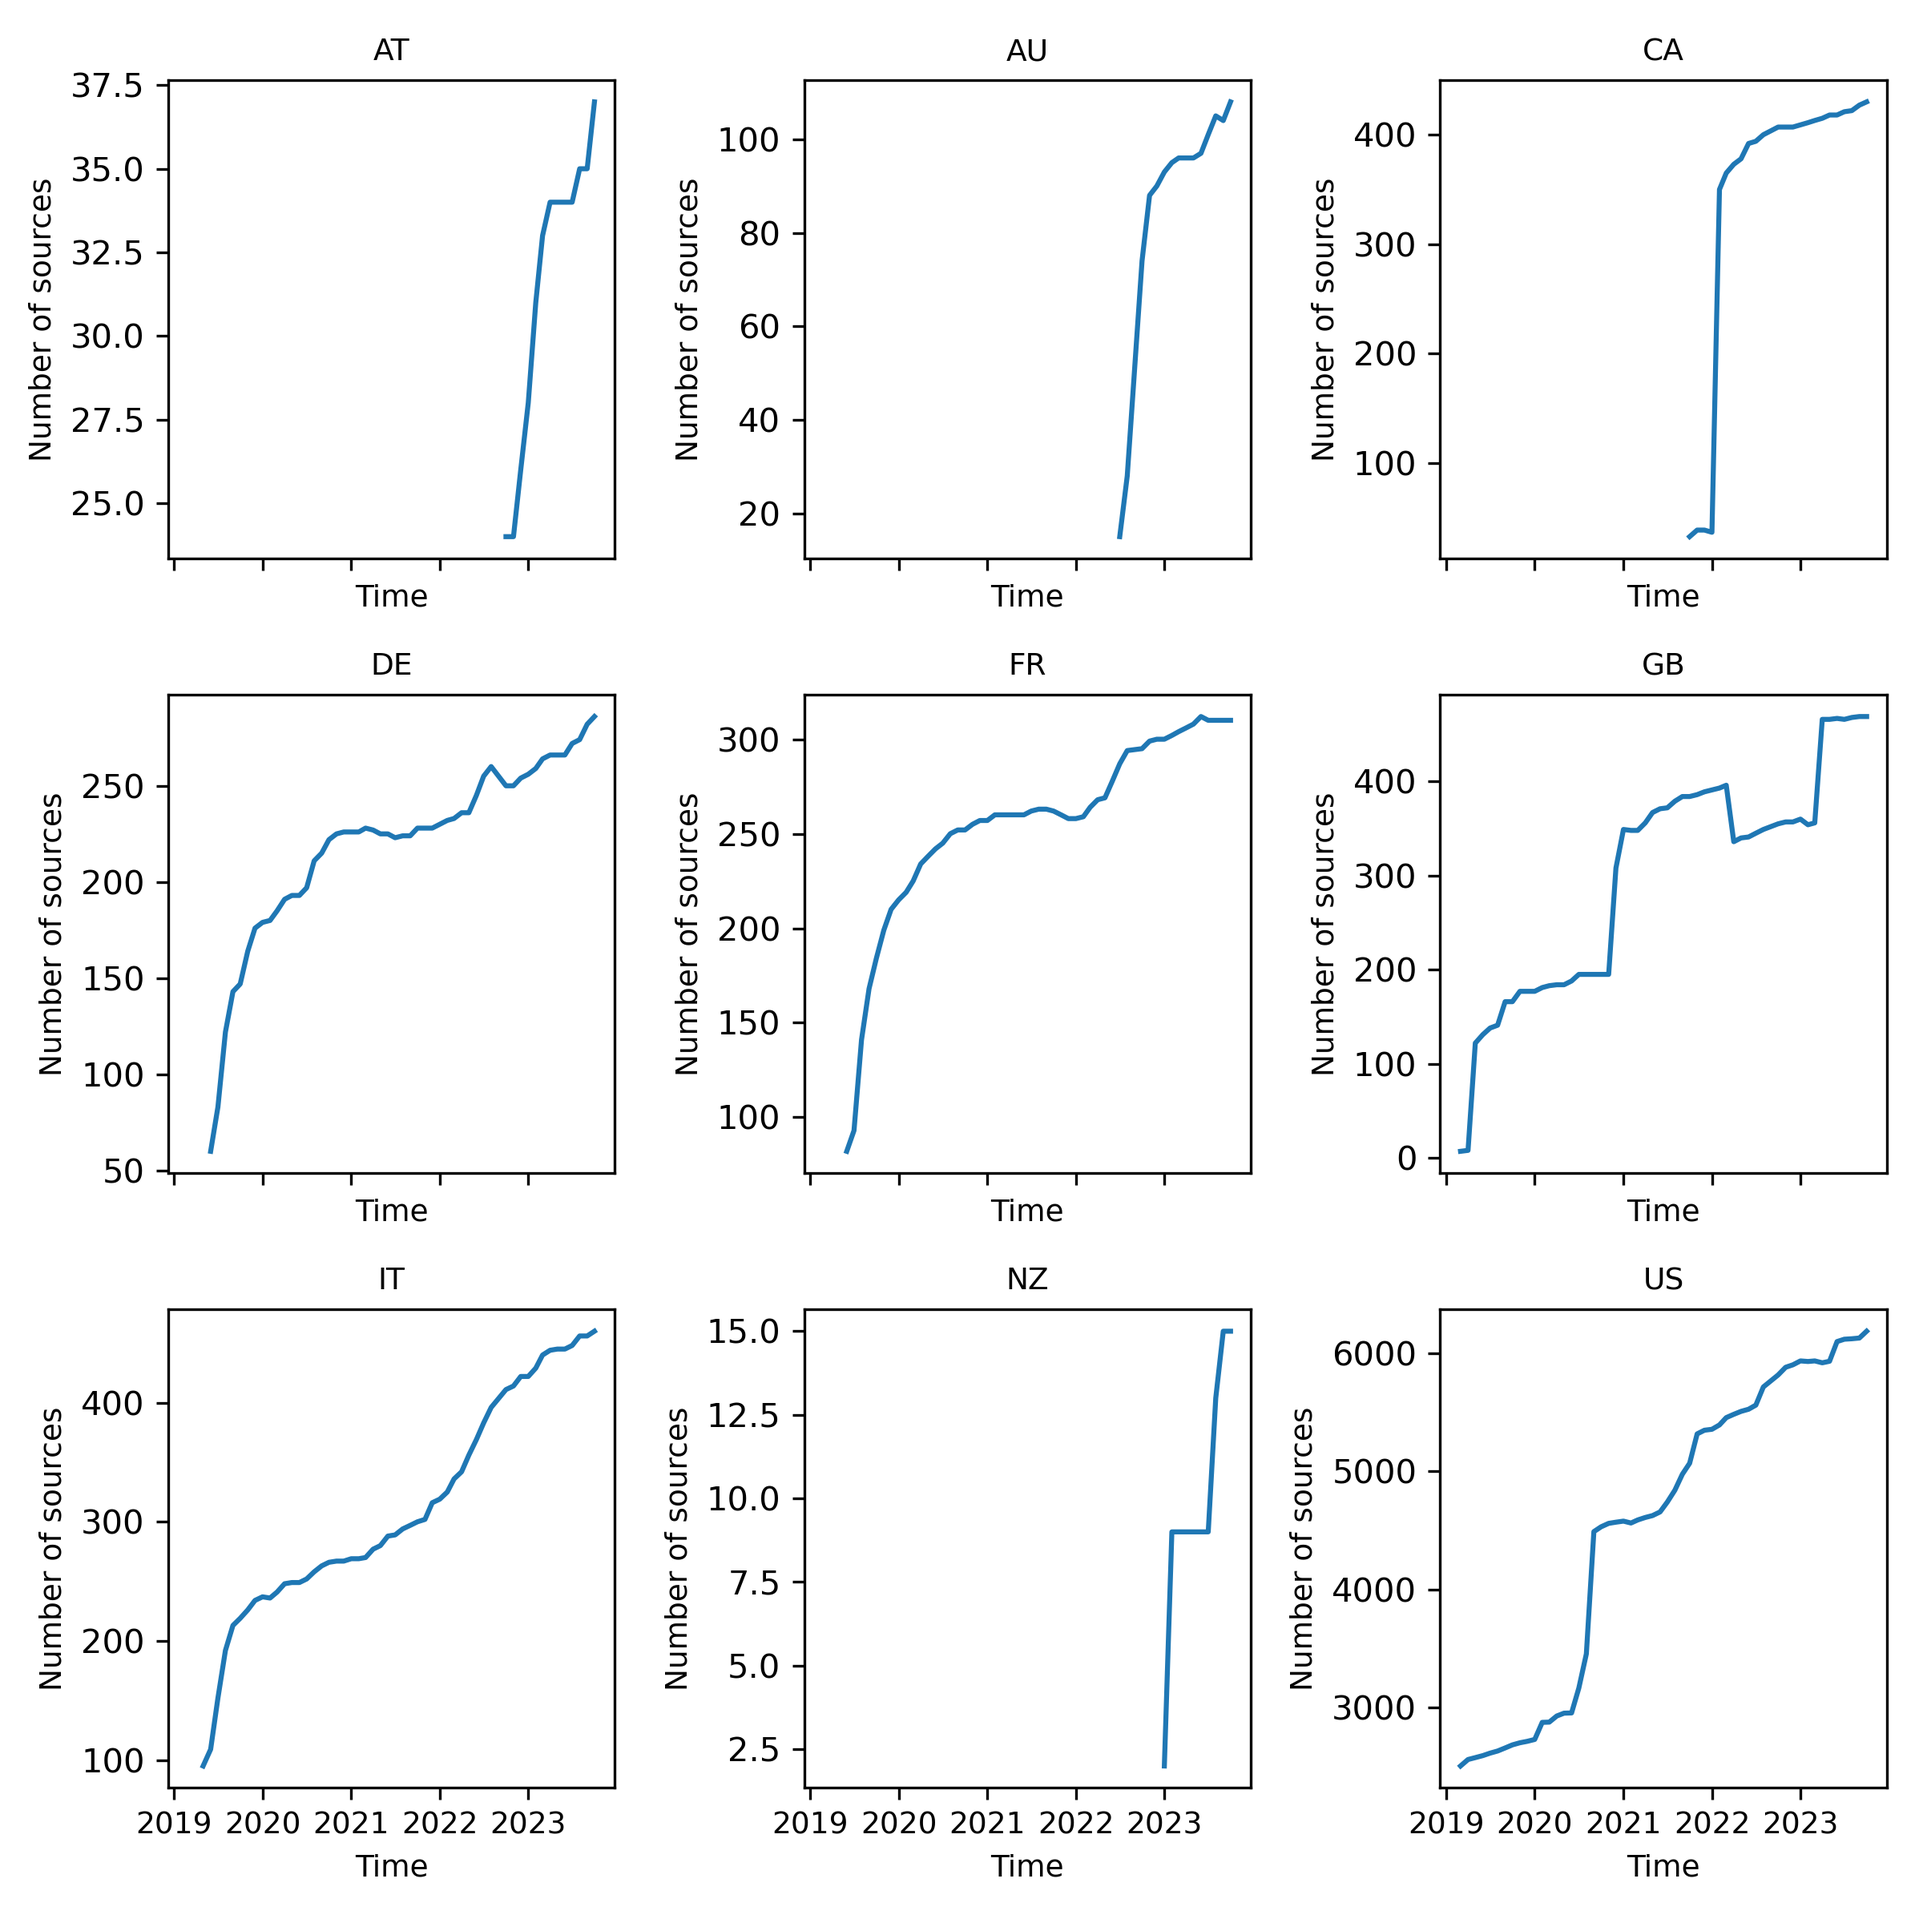
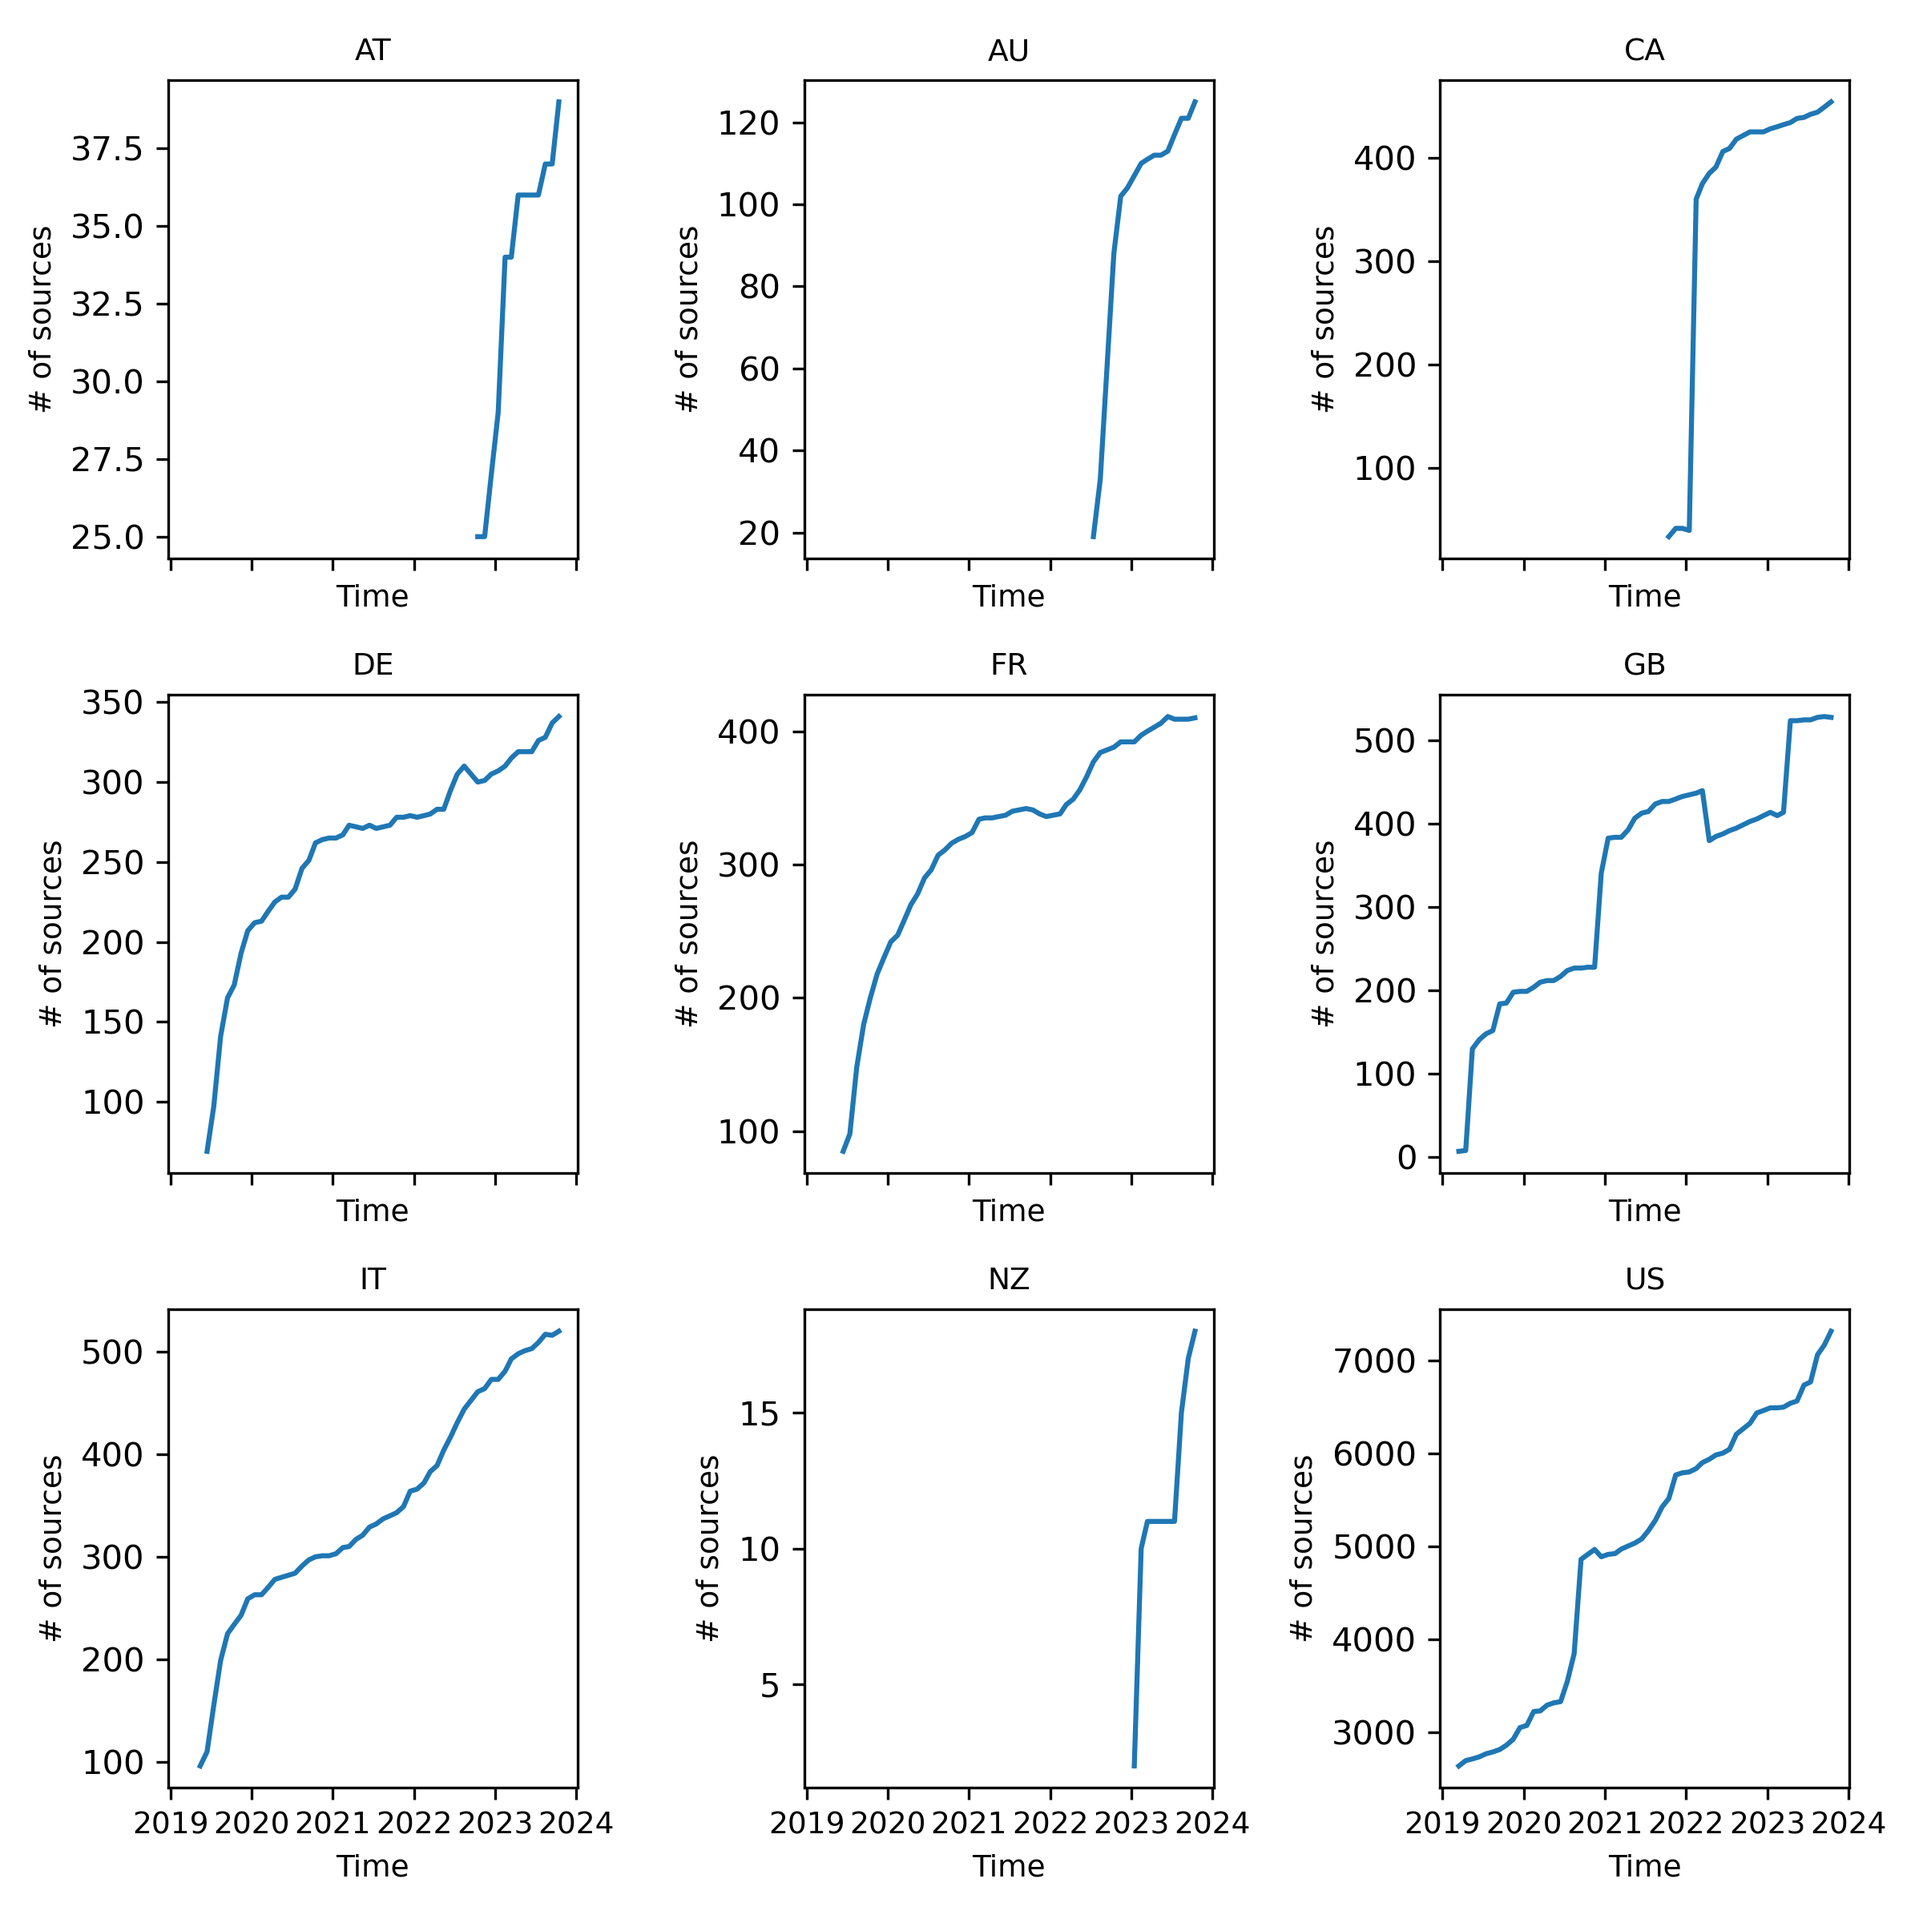
uuid updates

diff --git a/tables/t1_countries.tex b/tables/t1_countries.tex
@@ -1,24 +1,24 @@
 \begin{table}[H]
 \centering
-\caption{\textbf{Country Descriptives and Average Trustworthiness.}}
+\caption{\textbf{Country Descriptives.}}
 \label{table:table1}
-\begin{tabularx}{\textwidth}{ X c c c c c c }
+\begin{tabularx}{\textwidth}{ X c c c }
 \toprule
-Country & Language &    n &    \% &     Mean (SD) \\
+Country & Language &    n &     % \\
 \midrule
-     US &       en & 6646 & 75.04 & 61.68 (35.43) \\
-    ALL &       en & 1244 & 14.05 & 73.71 (27.05) \\
-     GB &       en &  566 &  6.39 & 80.95 (19.87) \\
-     IT &       it &  468 &  5.28 & 73.77 (23.34) \\
-     CA &       en &  391 &  4.41 &  89.57 (12.3) \\
-     FR &       fr &  337 &  3.80 & 69.18 (27.87) \\
-     DE &       de &  318 &  3.59 & 78.71 (30.13) \\
-     AU &       en &  115 &  1.30 & 70.76 (28.77) \\
-     CA &       fr &   44 &  0.50 & 79.27 (21.44) \\
-     AT &       de &   37 &  0.42 & 71.96 (30.42) \\
-     NZ &       en &   15 &  0.17 & 83.76 (24.67) \\
-     US &       es &    1 &  0.01 &    82.5 (0.0) \\
+     US &       en & 7803 & 75.77 \\
+    ALL &       en & 1442 & 14.00 \\
+     GB &       en &  619 &  6.01 \\
+     IT &       it &  524 &  5.09 \\
+     FR &       fr &  430 &  4.18 \\
+     CA &       en &  414 &  4.02 \\
+     DE &       de &  370 &  3.59 \\
+     AU &       en &  131 &  1.27 \\
+     CA &       fr &   45 &  0.44 \\
+     AT &       de &   39 &  0.38 \\
+     NZ &       en &   18 &  0.17 \\
+     US &       es &    1 &  0.01 \\
 \bottomrule
-\textit{Note.} All versions of the database.
+\textit{Note.} We counted unique domains across all versions of the database.
 \end{tabularx}
 \end{table}

diff --git a/tables/t2_scores.tex b/tables/t2_scores.tex
@@ -1,0 +1,22 @@
+\begin{table}[H]
+\centering
+\caption{\textbf{Country Averages.}}
+\label{table:table2}
+\begin{tabularx}{\textwidth}{ X c }
+\toprule
+Country &     Mean (SD) \\
+\midrule
+     CA & 86.36 (16.64) \\
+     NZ & 81.81 (26.77) \\
+     GB &  79.58 (21.7) \\
+     DE & 78.12 (30.06) \\
+     IT & 73.13 (24.33) \\
+    ALL & 72.48 (27.88) \\
+     AT & 71.93 (30.87) \\
+     AU & 71.25 (28.83) \\
+     FR & 66.52 (29.22) \\
+     US & 62.47 (35.17) \\
+\bottomrule
+\textit{Note.} Aggregated per month.
+\end{tabularx}
+\end{table}
